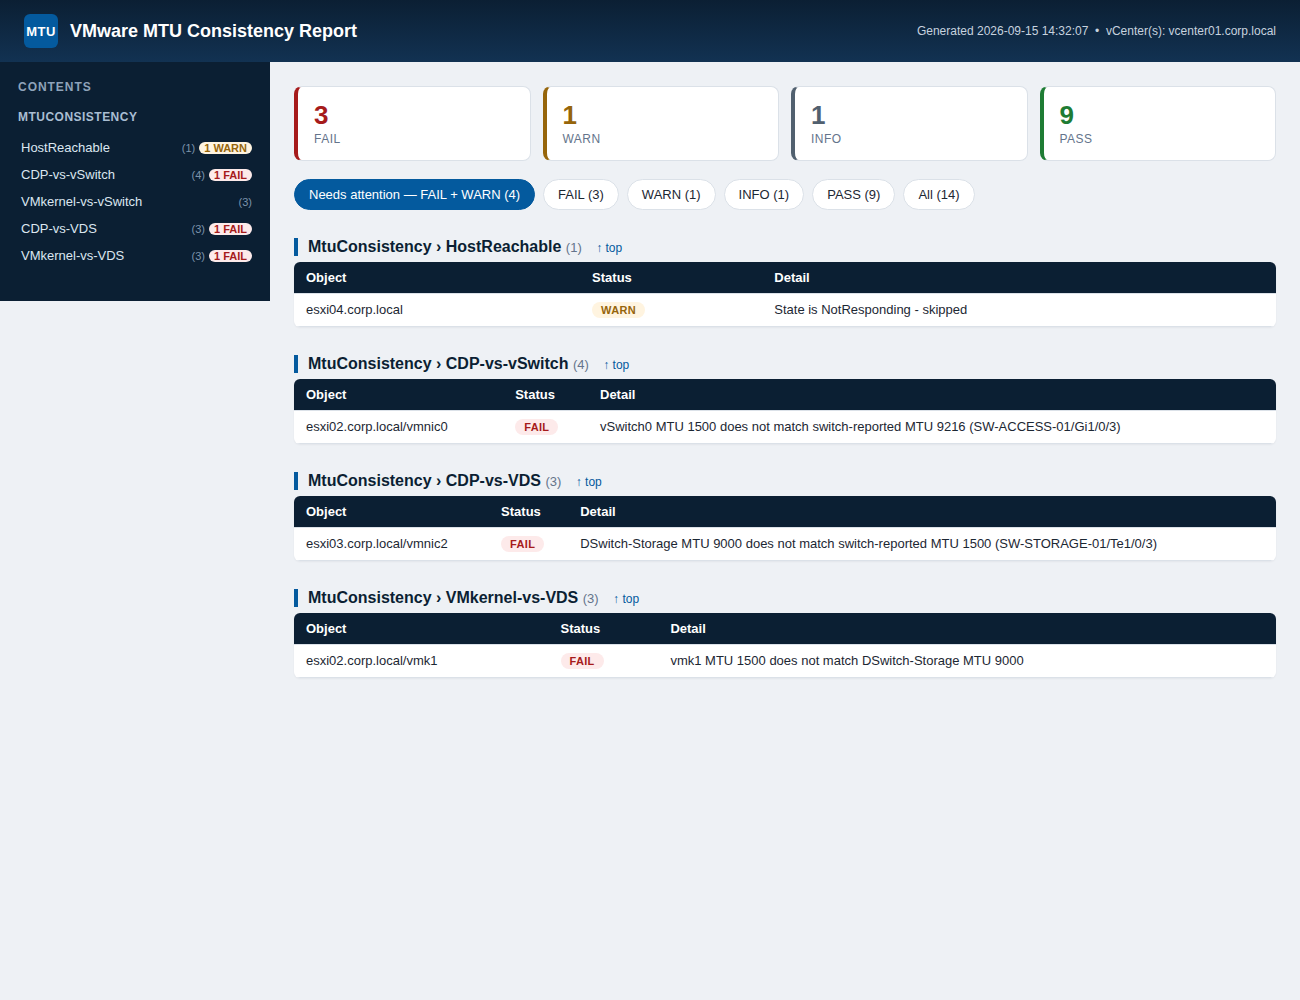
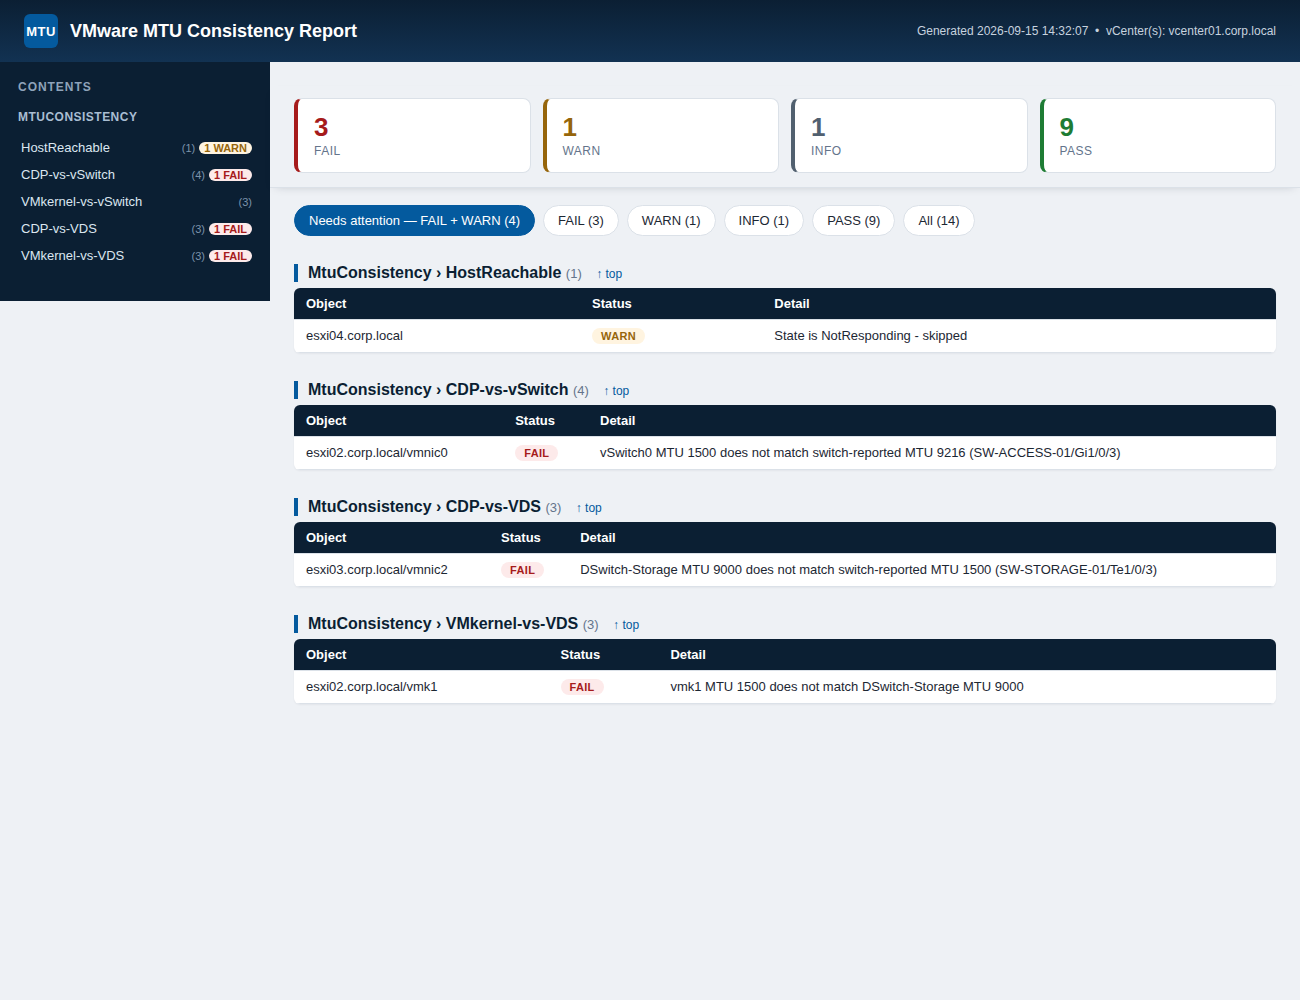
Reports: freeze the FAIL/WARN/INFO/PASS tiles like a spreadsheet header
The stat tiles double as the severity filter, but they scrolled away with
everything else - so changing filter from deep in a long report meant
scrolling all the way back up. They now stay pinned to the top of the
viewport while the results scroll underneath.

Rides along with the sidebar fix on this branch deliberately: both changes
regenerate the same two PNGs under docs/img/, and binary files cannot be
merged, so splitting them across two PRs would guarantee an unresolvable
conflict on whichever merged second.

Details worth noting:

  - .content has 24px padding, so a sticky child's background would only
    span the content box and rows would show through the side gutters as
    they scrolled past. Negative margin plus matching padding bleeds the
    background across the full width.
  - Anchor jumps from the sidebar would otherwise land a section heading
    underneath the frozen tiles. h2 gets scroll-margin-top to clear them.
  - Under the 820px breakpoint the layout stacks and the tiles would eat
    most of a phone screen, so the media query returns them to static.

Applied to all three report-generating scripts, which share this template.

Verified by rendering in headless Chromium and measuring, not by eyeballing
the CSS: tiles read top=0 while scrolled 1462px, the filter row correctly
scrolls up underneath them, and three sidebar jumps all land their heading
below the frozen tiles rather than behind them.
[…]

diff --git a/README.md b/README.md
@@ -108,7 +108,7 @@ Add ~10-30s for the initial PowerCLI module import. As long as `PASS`/`WARN` lin
 
 Both carry the columns **Category, Object, Check, Status, Detail**, and are written in a `finally` block — so you still get a report even if the run errors partway through. Pass `-ReportPath C:\Reports` to keep output in a fixed location instead of wherever you launched from.
 
-The HTML report uses a **dashboard-style layout** — a dark navy header and left navigation sidebar, a blue accent color, and status pill badges (`PASS`/`WARN`/`FAIL`/`INFO`), similar in feel to a Dell iDRAC or OpenManage console. Color-coded **stat tiles** at the top (Fail / Warn / Info / Pass counts) are clickable and double as the severity filter, alongside the same **`Needs attention`, `FAIL`, `WARN`, `INFO`, `PASS`, `All`** filter buttons — the report opens pre-filtered to `FAIL` + `WARN` (what needs fixing), so you can drill straight to the problems instead of scrolling past everything that passed.
+The HTML report uses a **dashboard-style layout** — a dark navy header and left navigation sidebar, a blue accent color, and status pill badges (`PASS`/`WARN`/`FAIL`/`INFO`), similar in feel to a Dell iDRAC or OpenManage console. Color-coded **stat tiles** at the top (Fail / Warn / Info / Pass counts) are clickable and double as the severity filter — and they **stay frozen at the top of the page** like a spreadsheet header row, so the filter stays reachable from anywhere in a long report instead of forcing a scroll back up — alongside the same **`Needs attention`, `FAIL`, `WARN`, `INFO`, `PASS`, `All`** filter buttons — the report opens pre-filtered to `FAIL` + `WARN` (what needs fixing), so you can drill straight to the problems instead of scrolling past everything that passed.
 
 Results are also broken into **per-check sections** (e.g. *VMware Tools*, *Hardware Version*, *Mounted ISOs*, *Snapshots*, *NTP*, *Datastore Free*), each in its own table. The left **sidebar** lists every section grouped by category with per-section counts and `FAIL`/`WARN` badges — the **whole row is the link**, name and count and badges alike, so clicking the number works the same as clicking the title and jumps straight to that table. Severity filtering and section navigation work together: under a filter, sections with no matching rows are hidden automatically, and clicking a sidebar link reveals the target. (The CSV stays complete and unfiltered for trending; open it in Excel and use AutoFilter on the Status column for the same effect.)
 
